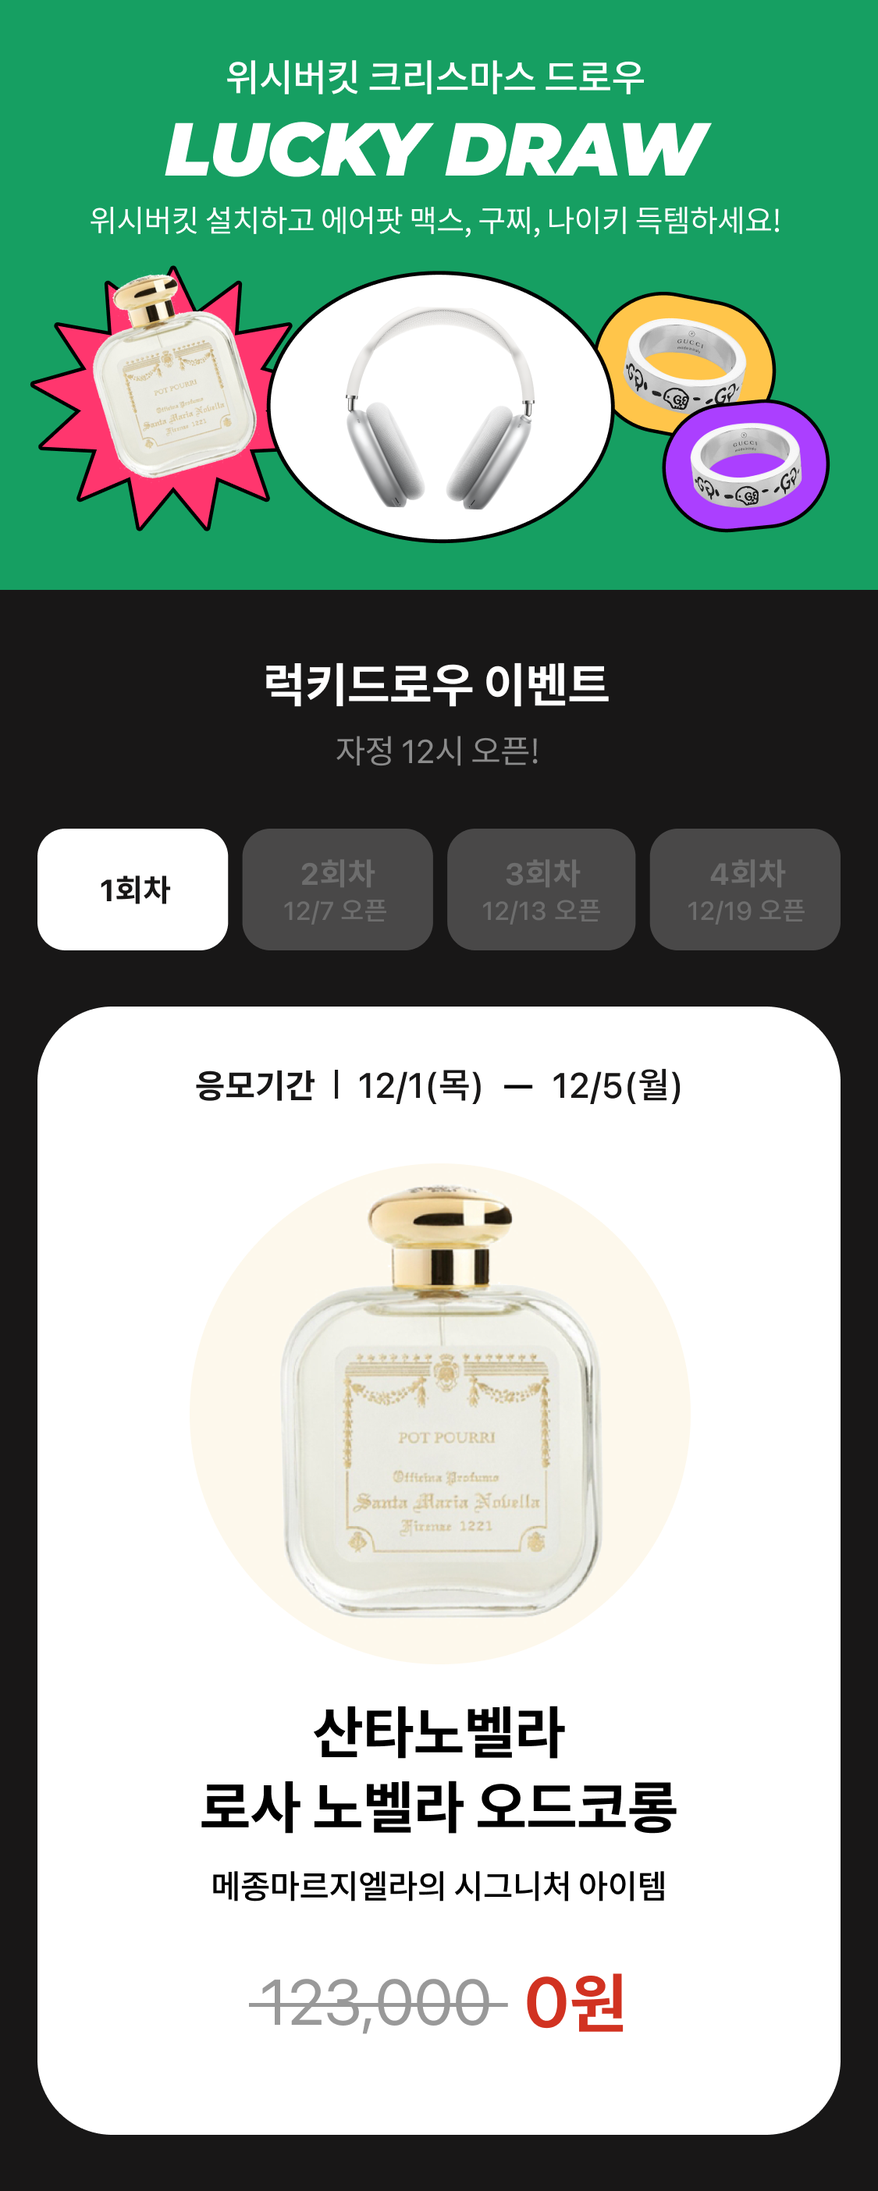
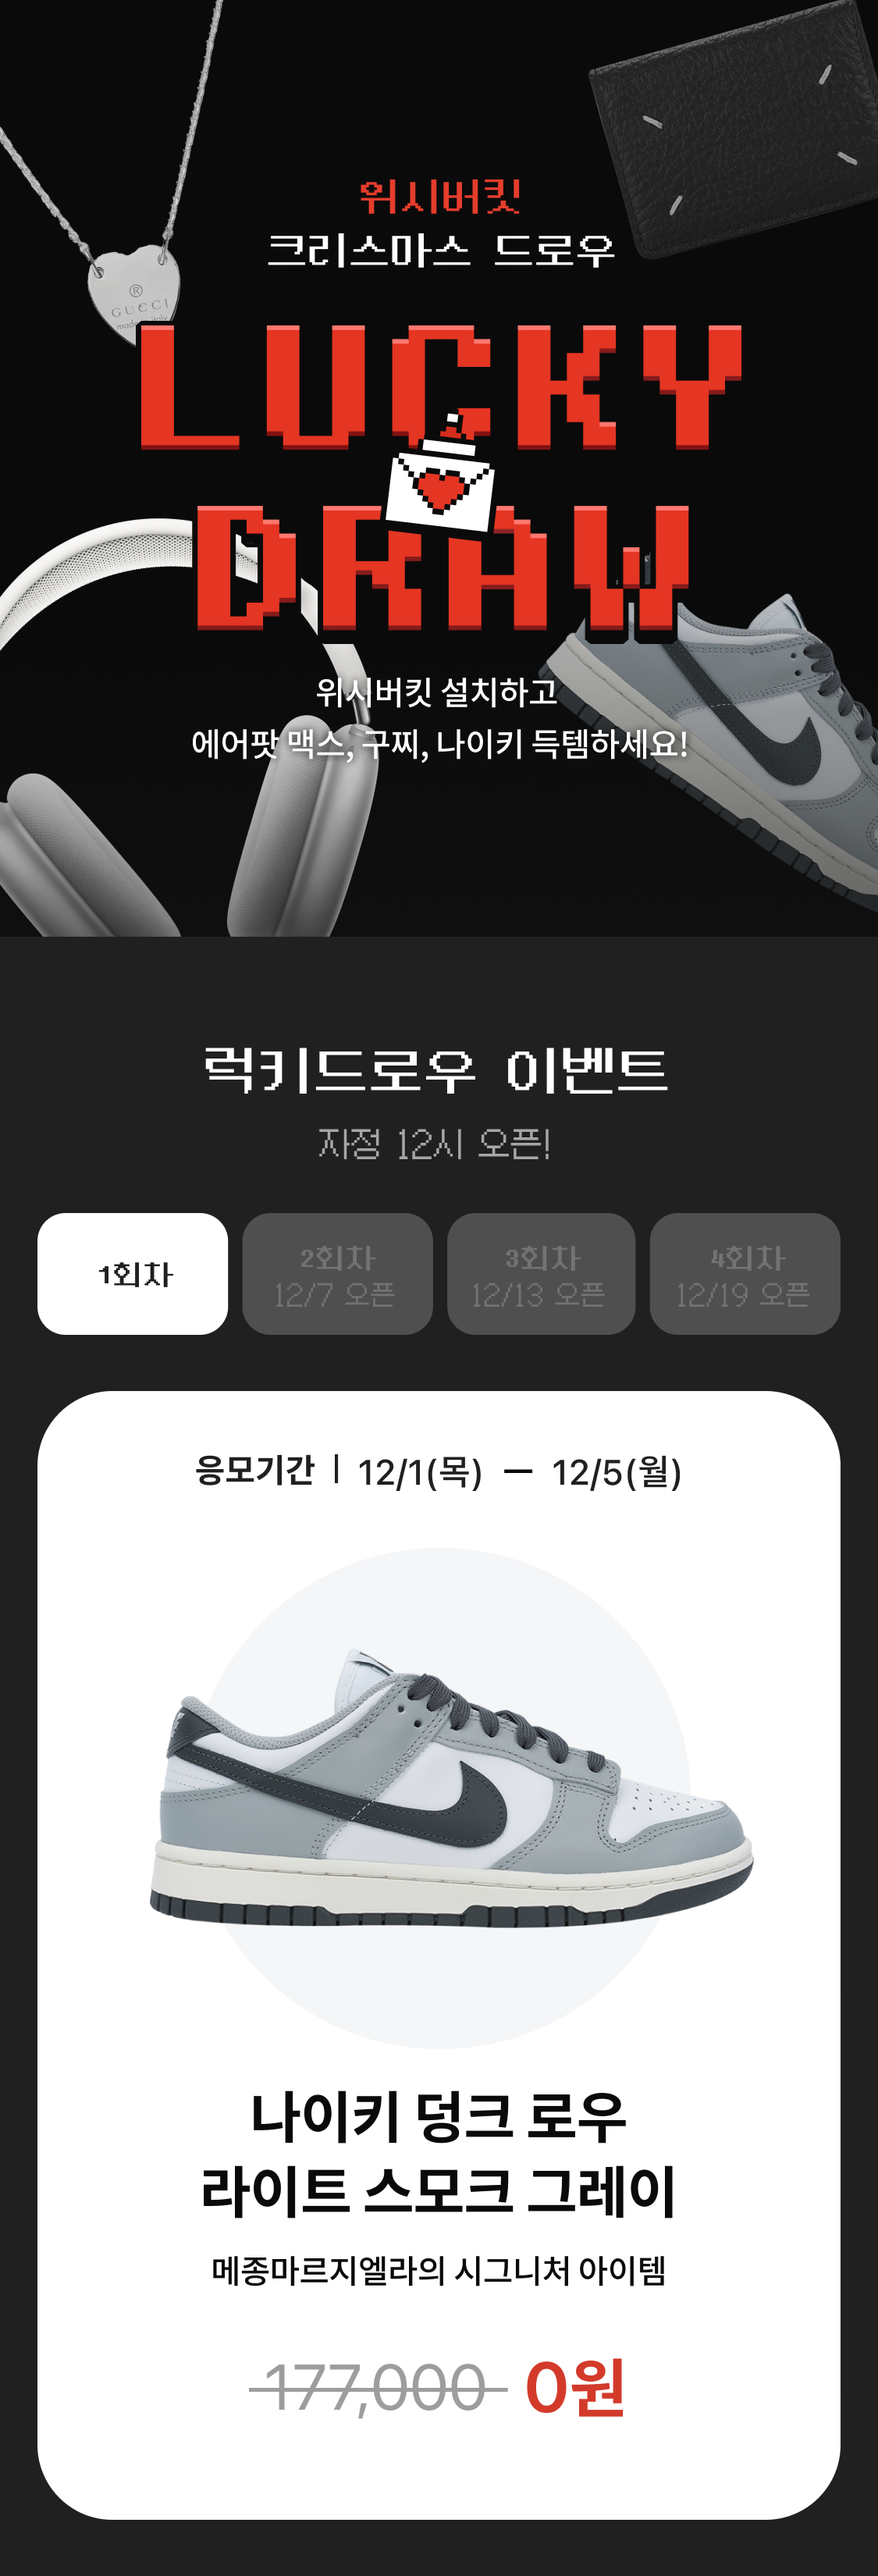
xmas event html, img, css changed

diff --git a/xmasEvent_2022_QA/firstEvent.html b/xmasEvent_2022_QA/firstEvent.html
@@ -6,9 +6,9 @@
 
 <body>
 	
-	<!-- 이벤트 안내 영역 1 -->	
+	<!-- 상단 안내 영역 1 -->	
 
-	<div class="subEventSection1">
+	<div class="subEventSection">
 		<!-- 이미지 -->
 		<div class="image">
 			<img class= "img" src="files/raffle01.png" alt="firstimg">
@@ -21,25 +21,56 @@
   	</div>	
 
 
-	<!-- 이벤트 안내 영역 2 -->	
+	<!-- 럭키드로우 스케쥴 / 팁 -->	
 
-	<div class="subEventSection2">
+	<div class="subEventSection">
 		<!-- 이미지 -->
 		<div class="image">
-			<img class= "img" src="files/tip.png" alt="secondimg">
+			<img class= "img" src="files/raffle02.png" alt="secondimg">
 		</div>
+
+		<!--하단 버튼-->
+		<a class="img" id="btn" href="firstEvent.html">
+	     		 <img class="btn_img" src="files/inviteFriend.png"/>
+	  	</a>
 
 	</div>
 	
 
-	<!-- 이벤트 안내 영역 3 -->	
+	<!-- 시크릿딜 아이템 -->	
 
-	<div class="subEventSection3">
+	<div class="subEventSection">
 		<!-- 이미지 -->
 		<div class="image">
-			<img class= "img" src="files/secretdeal.png" alt="secondimg">
+			<img class= "img" src="files/raffle03.png" alt="thirdimg">
 		</div>
 
+		
+		<!--시크릿딜 버튼-->
+		<div class="secretdeal">
+			<a class="sdcard" id="sdcard1" href="https://www.wishbucket.io/deals/77"> <img class="card_img" src="files/secretdeal01.png"/></a>
+			<a class="sdcard" id="sdcard2" href="https://www.wishbucket.io/deals/77"> <img class="card_img" src="files/secretdeal02.png"/></a>
+			<a class="sdcard" id="sdcard3" href="https://www.wishbucket.io/deals/77"> <img class="card_img" src="files/secretdeal03.png"/></a>
+			<a class="sdcard" id="sdcard4" href="https://www.wishbucket.io/deals/77"> <img class="card_img" src="files/secretdeal04.png"/></a>
+			<a class="sdcard" id="sdcard5" href="https://www.wishbucket.io/deals/77"> <img class="card_img" src="files/secretdeal05.png"/></a>
+			<a class="sdcard" id="sdcard6" href="https://www.wishbucket.io/deals/77"> <img class="card_img" src="files/secretdeal06.png"/></a>
+		</div>
+
+
+		<!--하단 버튼-->
+		<a class="img" id="btn" href="https://www.wishbucket.io/deals">
+	     		 <img class="btn_img" src="files/secretdealMore.png"/>
+	  	</a>
+
+
+	</div>
+
+	<!-- 유의사항 영역 -->
+	<div class="subEventSection">
+		<!-- 이미지 -->
+		<div class="image">
+			<img class= "img" src="files/raffleInformation.png" alt="raffleInformation">
+		</div>
 
 	</div>
 	

diff --git a/xmasEvent_2022/firstEvent.html b/xmasEvent_2022/firstEvent.html
@@ -6,9 +6,9 @@
 
 <body>
 	
-	<!-- 이벤트 안내 영역 1 -->	
+	<!-- 상단 안내 영역 1 -->	
 
-	<div class="subEventSection1">
+	<div class="subEventSection">
 		<!-- 이미지 -->
 		<div class="image">
 			<img class= "img" src="files/raffle01.png" alt="firstimg">
@@ -21,29 +21,56 @@
   	</div>	
 
 
-	<!-- 이벤트 안내 영역 2 -->	
+	<!-- 럭키드로우 스케쥴 / 팁 -->	
 
-	<div class="subEventSection2">
+	<div class="subEventSection">
 		<!-- 이미지 -->
 		<div class="image">
-			<img class= "img" src="files/tip.png" alt="secondimg">
+			<img class= "img" src="files/raffle02.png" alt="secondimg">
 		</div>
+
+		<!--하단 버튼-->
+		<a class="img" id="btn" href="firstEvent.html">
+	     		 <img class="btn_img" src="files/inviteFriend.png"/>
+	  	</a>
 
 	</div>
 	
 
-	<!-- 이벤트 안내 영역 3 -->	
+	<!-- 시크릿딜 아이템 -->	
 
-	<div class="subEventSection3">
+	<div class="subEventSection">
 		<!-- 이미지 -->
 		<div class="image">
-			<img class= "img" src="files/secretdeal.png" alt="secondimg">
+			<img class= "img" src="files/raffle03.png" alt="thirdimg">
 		</div>
 
+		
+		<!--시크릿딜 버튼-->
+		<div class="secretdeal">
+			<a class="sdcard" id="sdcard1" href="firstEvent.html"> <img class="card_img" src="files/secretdeal01.png"/></a>
+			<a class="sdcard" id="sdcard2" href="firstEvent.html"> <img class="card_img" src="files/secretdeal02.png"/></a>
+			<a class="sdcard" id="sdcard3" href="firstEvent.html"> <img class="card_img" src="files/secretdeal03.png"/></a>
+			<a class="sdcard" id="sdcard4" href="firstEvent.html"> <img class="card_img" src="files/secretdeal04.png"/></a>
+			<a class="sdcard" id="sdcard5" href="firstEvent.html"> <img class="card_img" src="files/secretdeal05.png"/></a>
+			<a class="sdcard" id="sdcard6" href="firstEvent.html"> <img class="card_img" src="files/secretdeal06.png"/></a>
+		</div>
+
+
 		<!--하단 버튼-->
-		<a class="img" id="btn" href="firstEvent.html" >
-	     		 <img class="btn_img" src="files/eventBtn.png"/>
+		<a class="img" id="btn" href="firstEvent.html">
+	     		 <img class="btn_img" src="files/secretdealMore.png"/>
 	  	</a>
+
+
+	</div>
+
+	<!-- 유의사항 영역 -->
+	<div class="subEventSection">
+		<!-- 이미지 -->
+		<div class="image">
+			<img class= "img" src="files/raffleInformation.png" alt="raffleInformation">
+		</div>
 
 	</div>
 	

diff --git a/xmasEvent_2022/style.css b/xmasEvent_2022/style.css
@@ -24,17 +24,21 @@ div{
 	padding-bottom:36px;
 }
 
-.subEventSection1{
+.subEventSection{
 	background-color: #181717;
 }
 
-
-.subEventSection2{
-	background-color: #181717;
+.secretdeal{
+	width:calc(100% - 32px);
+	text-align: center;
+	margin:0 auto;
+	margin-bottom: 18px;
 }
 
-.subEventSection3{
-	background-color: #181717;
+
+.card_img{
+	width:45%;
+	margin:6px;
 }
 
 
@@ -50,7 +54,7 @@ div{
 }
 
 .btn_img{
-	width: 93vw;
+	width: 100vw;
 }
 
 

diff --git a/xmasEvent_2022_QA/style.css b/xmasEvent_2022_QA/style.css
@@ -24,17 +24,21 @@ div{
 	padding-bottom:36px;
 }
 
-.subEventSection1{
+.subEventSection{
 	background-color: #181717;
 }
 
-
-.subEventSection2{
-	background-color: #181717;
+.secretdeal{
+	width:calc(100% - 32px);
+	text-align: center;
+	margin:0 auto;
+	margin-bottom: 18px;
 }
 
-.subEventSection3{
-	background-color: #181717;
+
+.card_img{
+	width:45%;
+	margin:6px;
 }
 
 
@@ -50,7 +54,7 @@ div{
 }
 
 .btn_img{
-	width: 93vw;
+	width: 100vw;
 }
 
 
